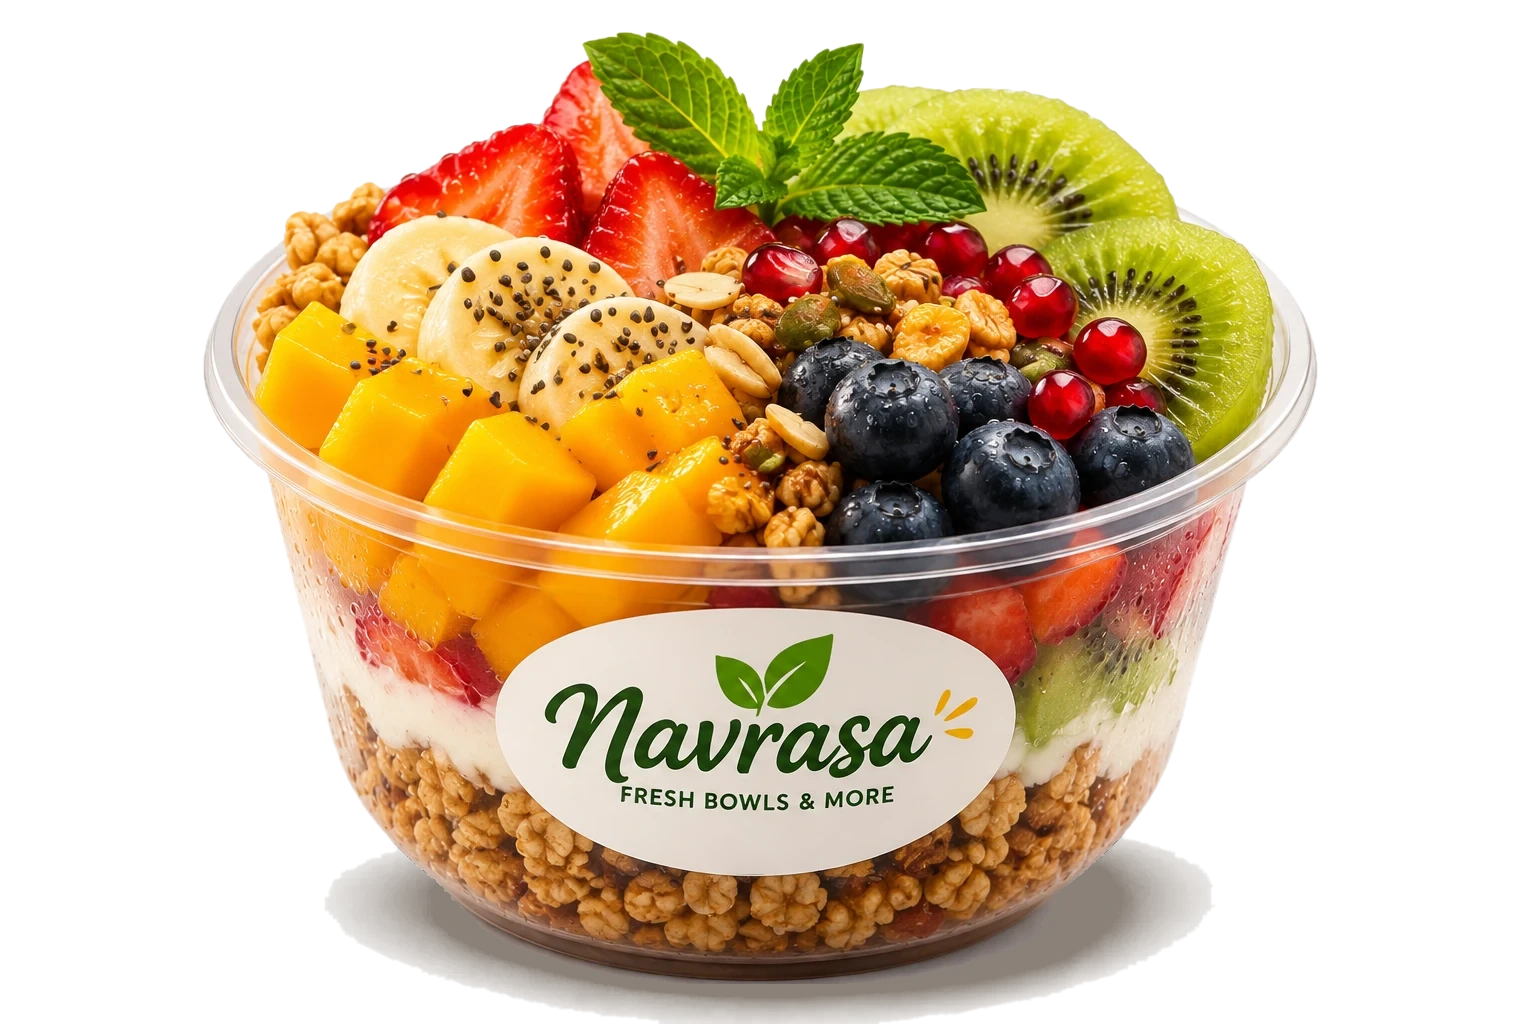
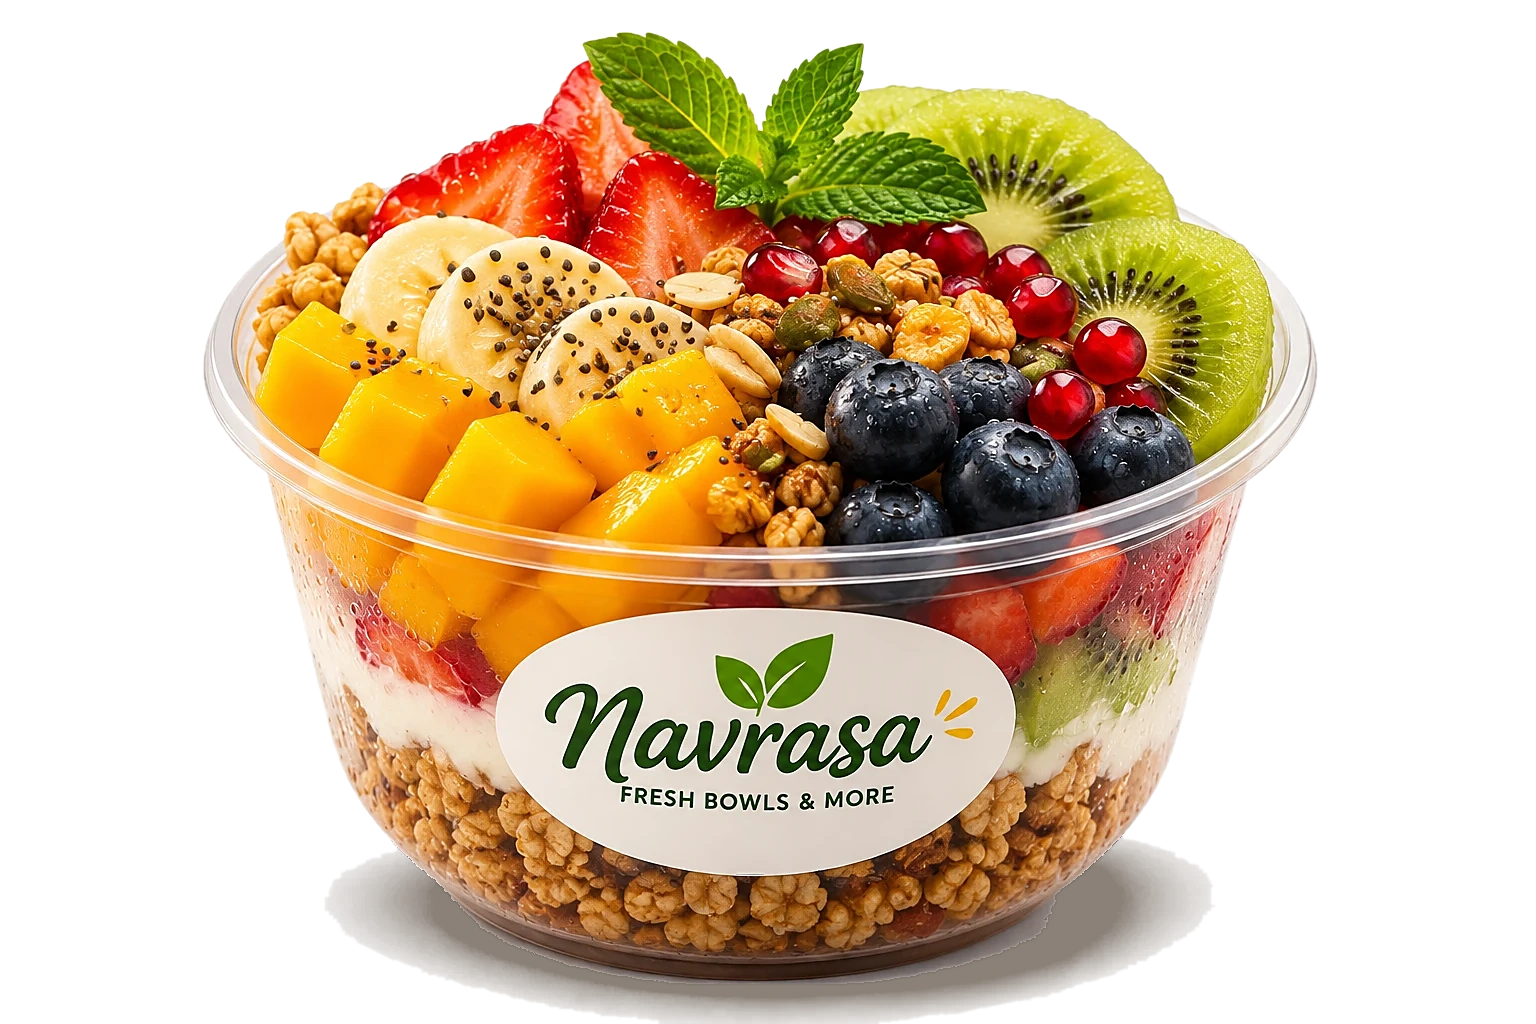
Sharper fruit: 2x textures, full-res rendering, crisper hero photo
- Procedural fruit textures render at 2x resolution on laptops and desktops
  (1x on phones / low-power devices to keep loading fast); max anisotropic
  filtering
- 3D renderers use the screen's full pixel density (hero up to 3x)
- Hero photo: gentle unsharp mask, higher quality encode, finer depth mesh
- Chia seeds are now small dark rounded seeds instead of grey hexagons
- 'Build your own' 3D only loads when scrolled near, so the page stays fast

Claude-Session: https://claude.ai/code/session_01KkFvgyJDMSxdXSUP3QMT9m

diff --git a/public/js/fruits3d.js b/public/js/fruits3d.js
@@ -55,7 +55,11 @@ function heightToNormal(H, w, h, strength, wrap) {
   const t = new THREE.CanvasTexture(c); if (wrap) t.wrapS = t.wrapT = THREE.RepeatWrapping; return t;
 }
 // fn(u, v, out) → out[0..2] = sRGB colour 0-255, out[3] = height. v = 0 at the bottom of the texture (matches UVs).
+// Texture quality: 2x resolution on laptops/desktops, 1x on phones and low-power devices (keeps load fast)
+const LOW_POWER = (navigator.hardwareConcurrency || 8) <= 4 || Math.min(screen.width, screen.height) < 600;
+export const TEXQ = LOW_POWER ? 1 : 2;
 function paint(w, h, fn, { normal = 0, wrap = false, post } = {}) {
+  w *= TEXQ; h *= TEXQ; normal *= TEXQ; // same look, more pixels (normal strength scales with pixel density)
   const c = document.createElement('canvas'); c.width = w; c.height = h;
   const g = c.getContext('2d'), img = g.createImageData(w, h), d = img.data;
   const H = normal ? new Float32Array(w * h) : null, o = [0, 0, 0, 0];
@@ -67,7 +71,7 @@ function paint(w, h, fn, { normal = 0, wrap = false, post } = {}) {
   }
   g.putImageData(img, 0, 0);
   if (post) post(g, w, h, H);
-  const map = new THREE.CanvasTexture(c); map.colorSpace = THREE.SRGBColorSpace; map.anisotropy = 8;
+  const map = new THREE.CanvasTexture(c); map.colorSpace = THREE.SRGBColorSpace; map.anisotropy = 16;
   if (wrap) map.wrapS = map.wrapT = THREE.RepeatWrapping;
   return { map, normalMap: H ? heightToNormal(H, w, h, normal, wrap) : null };
 }
@@ -181,11 +185,11 @@ const TX = {
         for (const [sx, sy, a] of seeds) {
           const px = (sx * 0.5 + 0.5) * w, py = (1 - (sy * 0.5 + 0.5)) * h;
           g.save(); g.translate(px, py); g.rotate(-a); g.fillStyle = '#1a1308';
-          g.beginPath(); g.ellipse(0, 0, rand(5, 7), rand(2.2, 3), 0, 0, TAU); g.fill();
-          g.fillStyle = 'rgba(255,255,255,0.35)'; g.beginPath(); g.ellipse(-1, -0.8, 1.6, 0.7, 0, 0, TAU); g.fill();
+          g.beginPath(); g.ellipse(0, 0, rand(5, 7) * TEXQ, rand(2.2, 3) * TEXQ, 0, 0, TAU); g.fill();
+          g.fillStyle = 'rgba(255,255,255,0.35)'; g.beginPath(); g.ellipse(-1 * TEXQ, -0.8 * TEXQ, 1.6 * TEXQ, 0.7 * TEXQ, 0, 0, TAU); g.fill();
           g.restore();
           const cx = Math.round(px), cy = Math.round(py);
-          for (let dy = -4; dy <= 4; dy++) for (let dx = -4; dx <= 4; dx++) { const i = (cy + dy) * w + cx + dx; if (H[i] !== undefined) H[i] += Math.max(0, 1 - Math.hypot(dx, dy) / 4.5) * 0.8; }
+          const R = 4 * TEXQ; for (let dy = -R; dy <= R; dy++) for (let dx = -R; dx <= R; dx++) { const i = (cy + dy) * w + cx + dx; if (H[i] !== undefined) H[i] += Math.max(0, 1 - Math.hypot(dx, dy) / (4.5 * TEXQ)) * 0.8; }
         }
       },
     });
@@ -206,7 +210,7 @@ const TX = {
     }, {
       normal: 4, post: (g, W, Hh, H) => {
         for (const s of seeds) for (const du of [-1, 0, 1]) {
-          const px = (s.u + du) * W, py = (1 - s.v) * Hh, rx = Math.min(9, 0.32 * W / s.n), ry = 7;
+          const px = (s.u + du) * W, py = (1 - s.v) * Hh, rx = Math.min(9 * TEXQ, 0.32 * W / s.n), ry = 7 * TEXQ;
           if (px < -rx || px > W + rx) continue;
           const gr = g.createRadialGradient(px, py, 0, px, py, rx);
           gr.addColorStop(0, 'rgba(90,0,6,0.55)'); gr.addColorStop(0.6, 'rgba(120,0,10,0.25)'); gr.addColorStop(1, 'rgba(120,0,10,0)');
@@ -754,7 +758,7 @@ const MATC = {
   granolaCore: () => once('m.granCore', () => phys({ color: '#9d6a33', roughness: 0.9 })),
   yogurtCup: () => once('m.yogCup', () => phys({ color: '#fbf7ef', roughness: 0.42, clearcoat: 0.5, clearcoatRoughness: 0.3, sheen: 0.6, sheenColor: new THREE.Color('#ffffff') })),
   mint: () => once('m.mint', () => { const t = TXC.mint(); return phys({ map: t.map, normalMap: t.normalMap, normalScale: nScale(0.35), roughness: 0.45, sheen: 0.7, sheenColor: new THREE.Color('#c9f0a8'), clearcoat: 0.3, side: THREE.DoubleSide }); }),
-  chia: () => once('m.chia', () => phys({ color: '#ffffff', roughness: 0.35, clearcoat: 0.6 })),
+  chia: () => once('m.chia', () => phys({ color: '#ffffff', roughness: 0.55, clearcoat: 0.25, clearcoatRoughness: 0.4, envMapIntensity: 0.5 })),
   nut: () => once('m.nut', () => phys({ color: '#ead2a0', roughness: 0.55, clearcoat: 0.2 })),
   pepita: () => once('m.pepita', () => phys({ color: '#5f7f2e', roughness: 0.45, clearcoat: 0.3 })),
   coconut: () => once('m.coco', () => phys({ color: '#fbf8f1', roughness: 0.7, side: THREE.DoubleSide })),
@@ -942,8 +946,8 @@ export function makeToppings(pieces, toppings = [], { vessel = 'cup', garnish = 
   if (has('granola')) root.add(granolaInstances(scatter(34).map(h => ({ p: h.p.addScaledVector(h.n, 0.03), s: rand(0.06, 0.09) }))));
   if (has('chia')) {
     const c = new THREE.Color();
-    root.add(instanced(once('g.chia', () => new THREE.SphereGeometry(1, 6, 4)), MATC.chia(), scatter(380), () => { const s = rand(0.009, 0.013); return [s, s * 0.55, s * 0.75]; }, 0.3,
-      () => c.setHSL(0.08, 0.1, rand(0.04, 0.22)).clone()));
+    root.add(instanced(once('g.chia', () => new THREE.SphereGeometry(1, 12, 8)), MATC.chia(), scatter(380), () => { const s = rand(0.009, 0.013); return [s, s * 0.55, s * 0.75]; }, 0.3,
+      () => c.setHSL(0.07, rand(0.05, 0.15), rand(0.02, 0.09)).clone()));
   }
   if (has('nuts')) {
     const hits = scatter(16);
@@ -982,8 +986,7 @@ export function makeToppings(pieces, toppings = [], { vessel = 'cup', garnish = 
 // =====================================================================
 export function createStage(canvas, { fov = 32, camPos = [0, 3, 6], target = [0, 0.55, 0], shadow = true, size } = {}) {
   const renderer = new THREE.WebGLRenderer({ canvas, antialias: true, alpha: true, powerPreference: 'high-performance', preserveDrawingBuffer: !!size });
-  const lowPower = (navigator.hardwareConcurrency || 8) <= 4 || Math.min(screen.width, screen.height) < 600;
-  renderer.setPixelRatio(size ? 1 : Math.min(window.devicePixelRatio, lowPower ? 1.25 : 1.75));
+  renderer.setPixelRatio(size ? 1 : Math.min(window.devicePixelRatio, LOW_POWER ? 1.5 : 2));
   renderer.outputColorSpace = THREE.SRGBColorSpace;
   renderer.toneMapping = THREE.ACESFilmicToneMapping;
   renderer.toneMappingExposure = 0.92;

diff --git a/public/js/photo-hero.js b/public/js/photo-hero.js
@@ -6,7 +6,7 @@ const reduceMotion = matchMedia('(prefers-reduced-motion: reduce)').matches;
 
 export function initPhotoHero(canvas, { image = '/img/hero-cup.webp', depth = '/img/hero-depth.png', aspect = 1.5, depthScale = 0.72 } = {}) {
   const renderer = new THREE.WebGLRenderer({ canvas, antialias: true, alpha: true });
-  renderer.setPixelRatio(Math.min(devicePixelRatio, 2));
+  renderer.setPixelRatio(Math.min(devicePixelRatio, 3)); // full sharpness on retina phones/laptops
   renderer.outputColorSpace = THREE.SRGBColorSpace;
   renderer.toneMapping = THREE.NoToneMapping;
 
@@ -15,12 +15,12 @@ export function initPhotoHero(canvas, { image = '/img/hero-cup.webp', depth = '/
 
   const loader = new THREE.TextureLoader();
   const photo = loader.load(image, () => { ready = true; });
-  photo.colorSpace = THREE.SRGBColorSpace; photo.anisotropy = 8;
+  photo.colorSpace = THREE.SRGBColorSpace; photo.anisotropy = renderer.capabilities.getMaxAnisotropy();
   const depthTex = loader.load(depth);
   let ready = false;
 
   const W = 3, H = W / aspect;
-  const geo = new THREE.PlaneGeometry(W, H, 360, 240);
+  const geo = new THREE.PlaneGeometry(W, H, 512, 342);
   // unlit: black base colour + photo as emissive keeps the photo's exact colours; map supplies alpha
   const mat = new THREE.MeshStandardMaterial({
     color: 0x000000, map: photo, emissive: 0xffffff, emissiveMap: photo, roughness: 1, metalness: 0,

diff --git a/public/js/app.js b/public/js/app.js
@@ -287,9 +287,15 @@ async function init3D() {
   try {
     const { initPhotoHero } = await import('./photo-hero.js');
     initPhotoHero($('#heroCanvas'));
-    const { initBuilder } = await import('./scenes.js');
-    builderScene = initBuilder($('#builderCanvas'));
-    builderScene.setBowl(builder.fruits, builder.toppings);
+    // the 3D bowl builder is heavier — only build it when the customer scrolls near it
+    const startBuilder = async () => {
+      if (builderScene) return;
+      const { initBuilder } = await import('./scenes.js');
+      builderScene = initBuilder($('#builderCanvas'));
+      builderScene.setBowl(builder.fruits, builder.toppings);
+    };
+    const io = new IntersectionObserver(es => { if (es.some(e => e.isIntersecting)) { io.disconnect(); startBuilder().catch(e => console.error('3D builder failed:', e)); } }, { rootMargin: '600px' });
+    io.observe($('#builderCanvas'));
     // menu cards use real photos (uploaded per bowl in admin, else the Navrasa product photo)
   } catch (e) {
     console.error('3D failed to start:', e);

diff --git a/tools/make-hero-3d.py b/tools/make-hero-3d.py
@@ -40,7 +40,10 @@ clear = (yy > 835) & inside_body & ~label & (mx - mn < 26) & (mn > 125)
 alpha2 = np.where(clear, np.clip((250 - rgb.mean(2)) / 110, 0, 0.6) * alpha, alpha2)
 shadow = shadow | clear
 rgb2 = np.where(shadow[..., None], np.array([60, 45, 30], np.float32), rgb)
-Image.fromarray(np.dstack([rgb2, alpha2 * 255]).astype(np.uint8), 'RGBA').save('../public/img/hero-cup.webp', quality=92, method=6)
+_hero = Image.fromarray(np.dstack([rgb2, alpha2 * 255]).astype(np.uint8), 'RGBA')
+# gentle sharpening (colour only, not the transparency) so fruit detail stays crisp when the photo is shown in 3D
+_rgb = _hero.convert('RGB').filter(ImageFilter.UnsharpMask(radius=1.4, percent=70, threshold=2)); _rgb.putalpha(_hero.getchannel('A'))
+_rgb.save('../public/img/hero-cup.webp', quality=95, method=6)
 Rr = 555.0; dx = xx - cx
 body = np.sqrt(np.clip(Rbody(yy) ** 2 - dx ** 2, 0, None)) / Rr
 heapF = 0.35 + 0.65 * np.clip((yy - 40) / (360 - 40), 0, 1) ** 1.2
